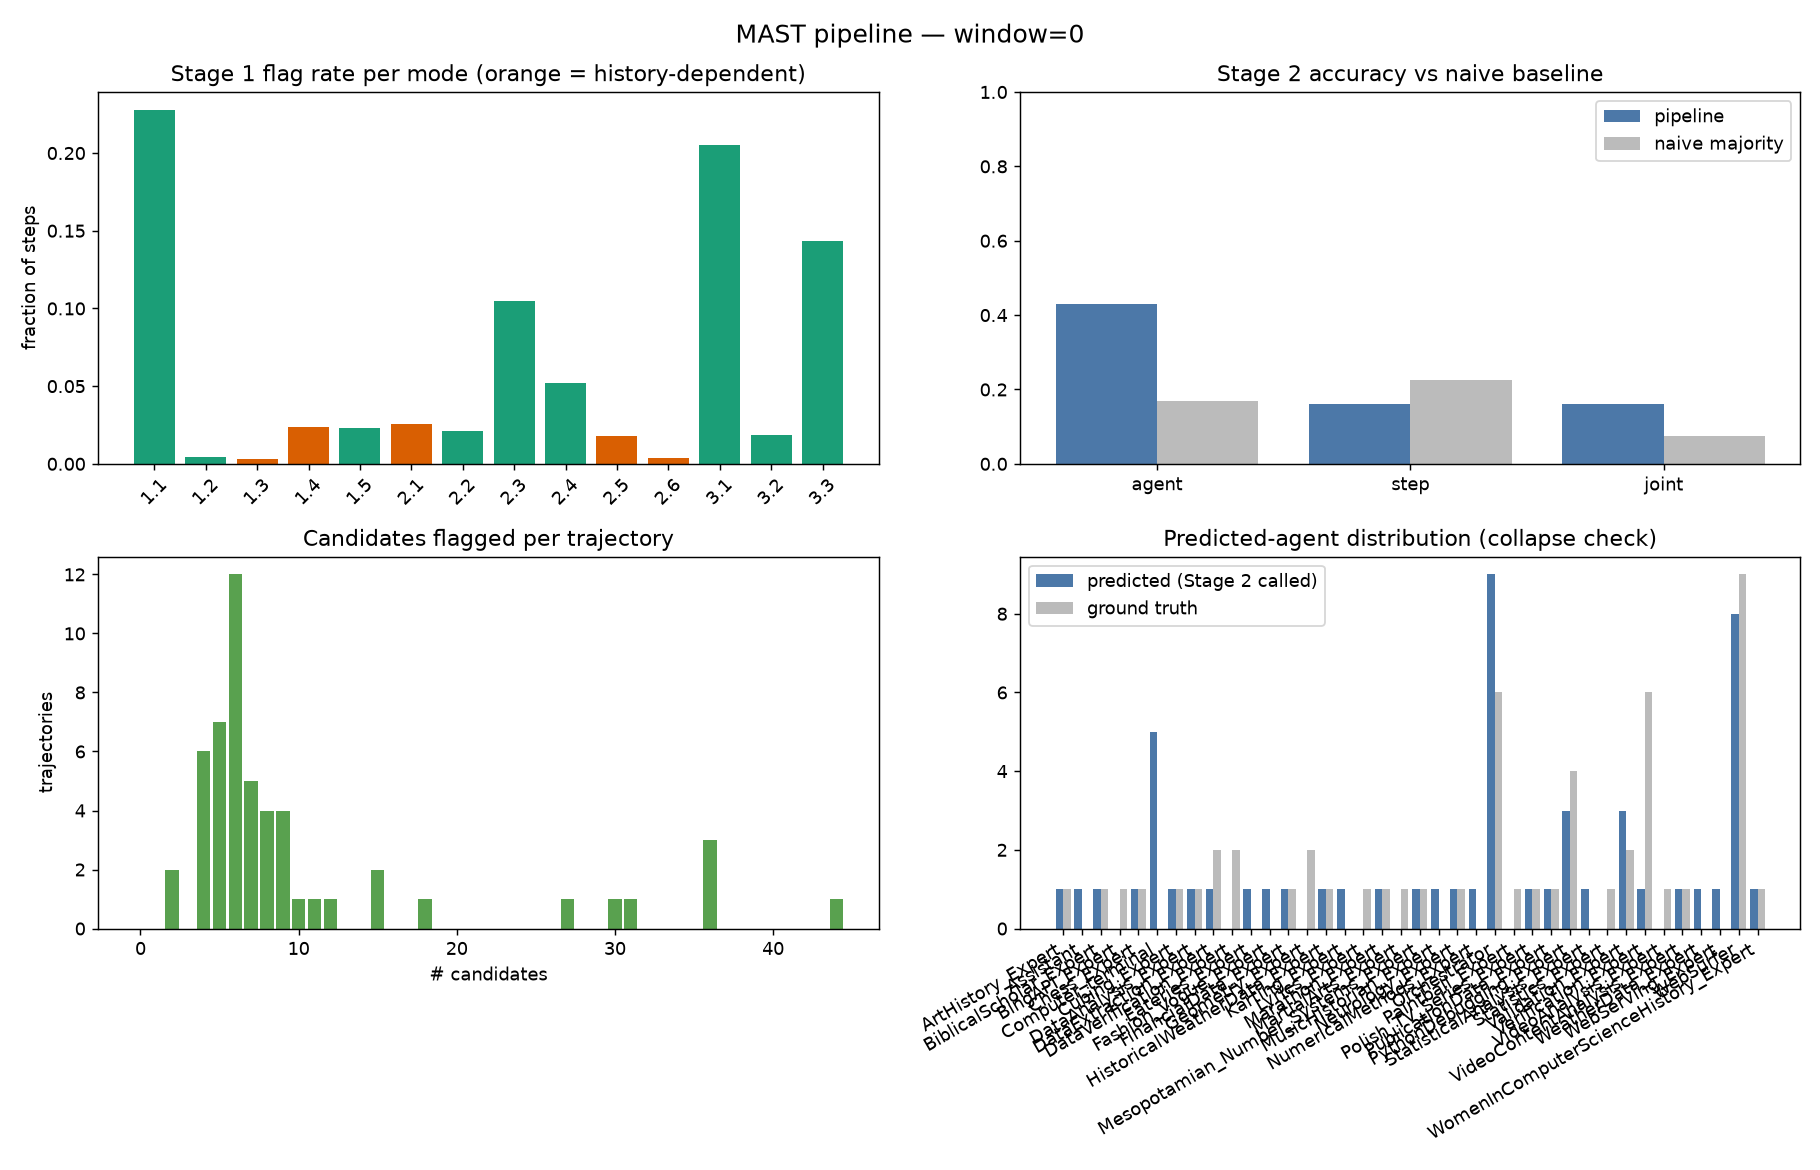
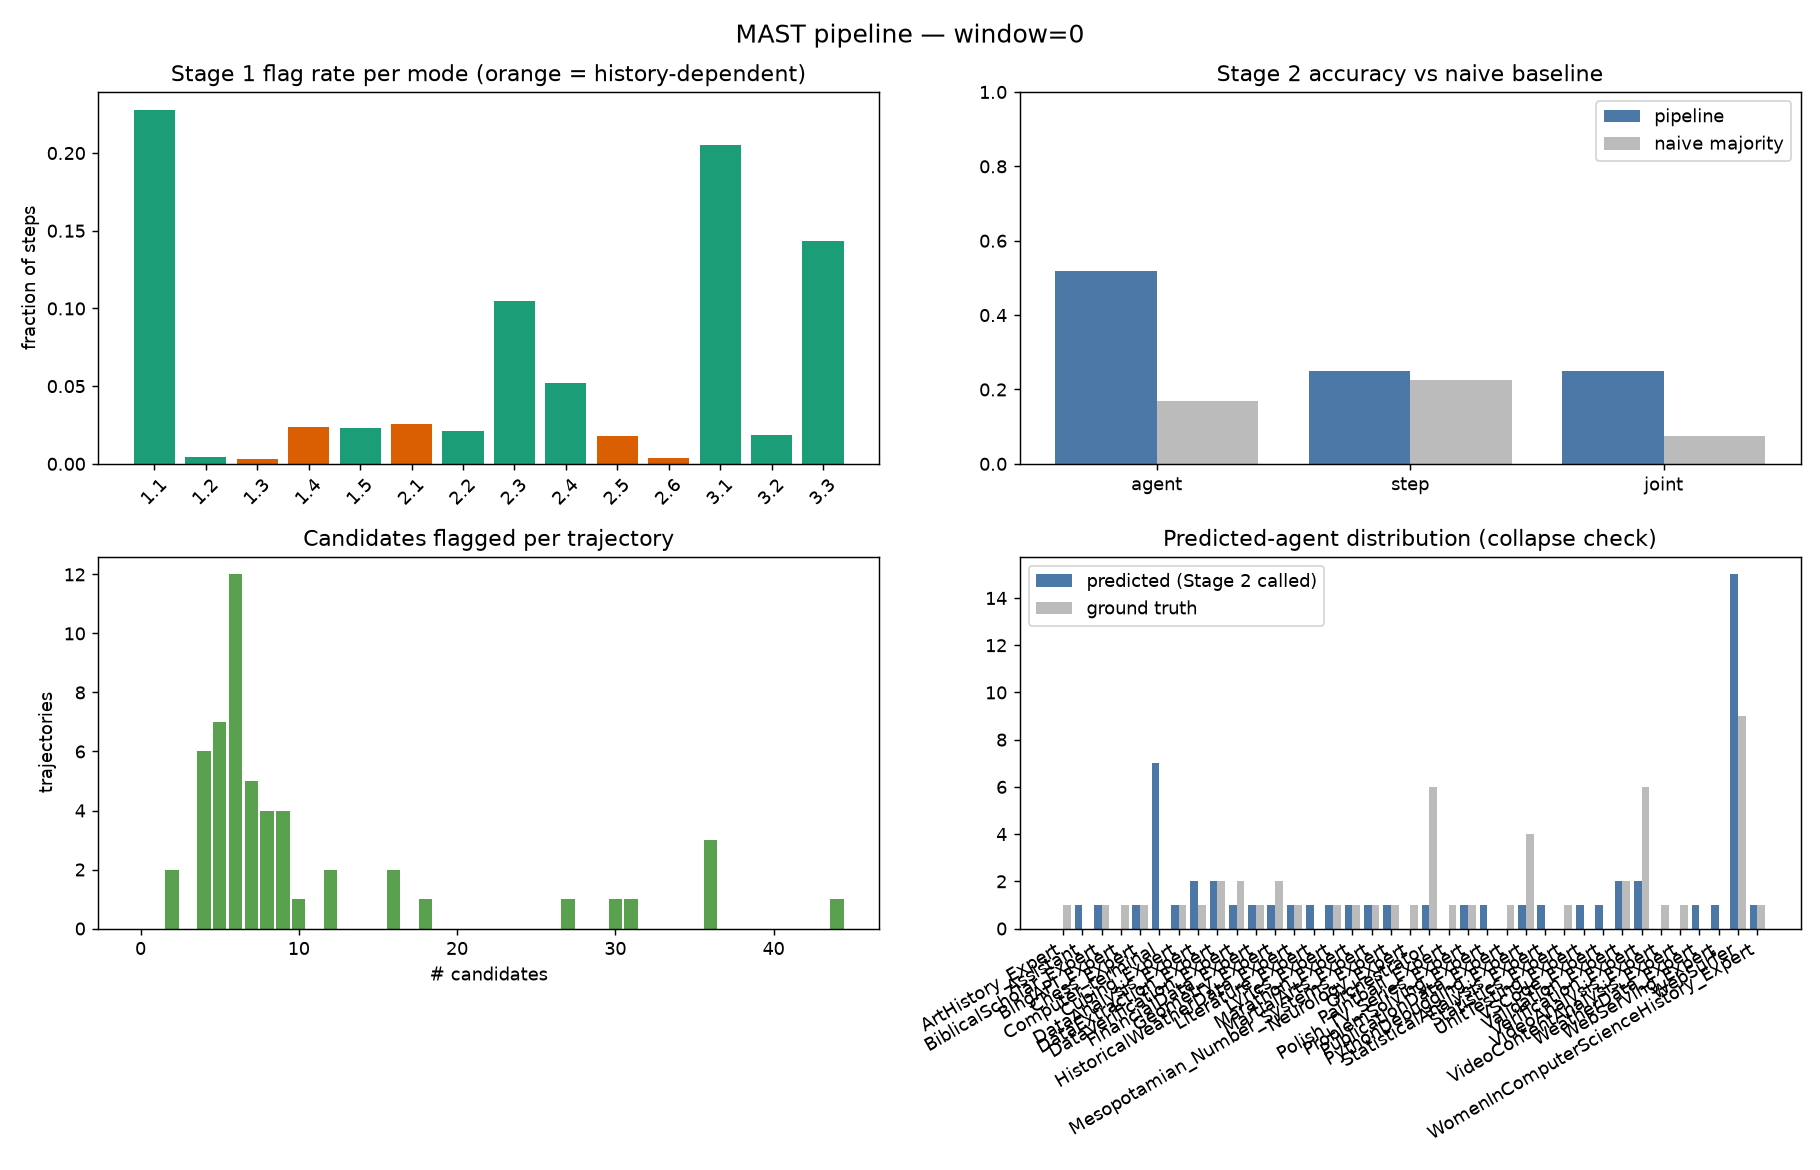
Updated results for the chnage in prompt

diff --git a/window3_report.md b/window3_report.md
@@ -6,12 +6,12 @@
 
 - **Recall of true mistake steps (flagged by Stage 1):** 88.7% of 53 (via history-dependent modes: 18.9%; via context-independent modes: 86.8%)
 - Overall step flag rate: 69.9%  |  zero-candidate trajectories: 0.0%  |  Stage 2 UNSURE rate: 0.0%
-- **Agent / step / joint accuracy:** 42.9% / 21.4% / 17.9%
+- **Agent / step / joint accuracy:** 51.8% / 25.0% / 25.0%
 - Naive majority baseline: agent 17.0% (always 'WebSurfer'), step 22.6% (always 1), joint 7.5% (always ('PythonDebugging_Expert', 0))
-- Agent-correct / step-wrong: 14 trajectories (58.3% of agent-correct predictions)
-- Predicted-agent distribution: {'WebSurfer': 9, 'Orchestrator': 8, 'ComputerTerminal': 1, 'Computer_terminal': 9, 'Chinese_Zodiac_Expert': 1, 'Lyrics_Expert': 1, 'PythonDebugging_Expert': 3, 'WomenInComputerScienceHistory_Expert': 1, 'Cubing_Expert': 1, 'Polish_TV_Series_Expert': 1, 'PublicationData_Expert': 1, 'Mesopotamian_Number_Systems_Expert': 1, 'VideoContentAnalysis_Expert': 1, 'BiblicalScholar_Expert': 1, 'DataExtraction_Expert': 1, 'DoctorWhoScript_Expert': 1, 'Literature_Expert': 1, 'DataVerification_Expert': 1, 'CelestialPhysics_Expert': 1, 'StatisticalAnalysis_Expert': 1, 'Chess_Expert': 1, 'FinancialData_Expert': 1, 'Eateries_Expert': 1, 'DataAnalysis_Expert': 1, 'HistoricalWeatherData_Expert': 1, 'Verification_Expert': 1, 'Karting_Expert': 1, 'NYC_Local_Expert': 1}  (ground truth: {'WebSurfer': 9, 'Orchestrator': 6, 'BingAPI_Expert': 1, 'Geometry_Expert': 2, 'Verification_Expert': 6, 'Validation_Expert': 2, 'ArtHistory_Expert': 1, 'Lyrics_Expert': 1, 'PythonDebugging_Expert': 4, 'WomenInComputerScienceHistory_Expert': 1, 'Cubing_Expert': 1, 'Polish_TV_Series_Expert': 1, 'PublicationData_Expert': 1, 'Mesopotamian_Number_Systems_Expert': 1, 'DataExtraction_Expert': 2, 'VideoContentAnalysis_Expert': 1, 'BiblicalScholar_Expert': 1, 'VideoAnalysis_Expert': 1, 'Neurology_Expert': 1, 'DataVerification_Expert': 2, 'Marathon_Expert': 1, 'DataAnalysis_Expert': 1, 'Chess_Expert': 1, 'FinancialData_Expert': 1, 'HistoricalWeatherData_Expert': 1, 'Statistics_Expert': 1, 'Paintball_Expert': 1, 'MartialArts_Expert': 1})
+- Agent-correct / step-wrong: 15 trajectories (51.7% of agent-correct predictions)
+- Predicted-agent distribution: {'WebSurfer': 12, 'Orchestrator': 3, 'BingAPI_Expert': 1, 'ProblemSolving_Expert': 1, 'Assistant': 1, 'Computer_terminal': 6, 'Lyrics_Expert': 1, 'PythonDebugging_Expert': 3, 'WomenInComputerScienceHistory_Expert': 1, 'Cubing_Expert': 1, 'Polish_TV_Series_Expert': 1, 'NumericalMethods_Expert': 1, 'PublicationData_Expert': 1, 'Mesopotamian_Number_Systems_Expert': 1, 'Geometry_Expert': 1, 'DataExtraction_Expert': 2, 'BiblicalScholar_Expert': 1, 'WebServing_Expert': 1, 'VideoAnalysis_Expert': 1, 'Literature_Expert': 1, 'DataVerification_Expert': 1, 'CelestialPhysics_Expert': 1, 'StatisticalAnalysis_Expert': 1, 'Chess_Expert': 1, 'FinancialData_Expert': 1, 'Validation_Expert': 1, 'Bioinformatics_Expert': 1, 'HistoricalWeatherData_Expert': 1, 'Verification_Expert': 1, 'WeatherData_Expert': 1, 'Karting_Expert': 1, 'NYC_Local_Expert': 1}  (ground truth: {'WebSurfer': 9, 'Orchestrator': 6, 'BingAPI_Expert': 1, 'Geometry_Expert': 2, 'Verification_Expert': 6, 'Validation_Expert': 2, 'ArtHistory_Expert': 1, 'Lyrics_Expert': 1, 'PythonDebugging_Expert': 4, 'WomenInComputerScienceHistory_Expert': 1, 'Cubing_Expert': 1, 'Polish_TV_Series_Expert': 1, 'PublicationData_Expert': 1, 'Mesopotamian_Number_Systems_Expert': 1, 'DataExtraction_Expert': 2, 'VideoContentAnalysis_Expert': 1, 'BiblicalScholar_Expert': 1, 'VideoAnalysis_Expert': 1, 'Neurology_Expert': 1, 'DataVerification_Expert': 2, 'Marathon_Expert': 1, 'DataAnalysis_Expert': 1, 'Chess_Expert': 1, 'FinancialData_Expert': 1, 'HistoricalWeatherData_Expert': 1, 'Statistics_Expert': 1, 'Paintball_Expert': 1, 'MartialArts_Expert': 1})
 - parse_error rates — Summarizer 0.00%, Stage 1 0.00%, Stage 2 0.00%; parse errors on ground-truth steps: 0
-- Cost: 46157 tokens/trajectory (2584815 total; Stage 1 avg input 1166 tokens/step), 141.7s/trajectory
+- Cost: 49368 tokens/trajectory (2764621 total; Stage 1 avg input 1166 tokens/step), 148.5s/trajectory
 
 ## Mode flag counts
 
@@ -40,18 +40,18 @@
 | recall_hist_modes      |     0.113208  |     0.188679  |
 | recall_ctx_indep_modes |     0.698113  |     0.867925  |
 | step_flag_rate         |     0.421289  |     0.698651  |
-| agent_acc              |     0.428571  |     0.428571  |
-| step_acc               |     0.160714  |     0.214286  |
-| joint_acc              |     0.160714  |     0.178571  |
+| agent_acc              |     0.517857  |     0.517857  |
+| step_acc               |     0.25      |     0.25      |
+| joint_acc              |     0.25      |     0.25      |
 | naive_agent            |     0.169811  |     0.169811  |
 | naive_step             |     0.226415  |     0.226415  |
 | naive_joint            |     0.0754717 |     0.0754717 |
 | zero_cand_rate         |     0         |     0         |
 | unsure_rate            |     0         |     0         |
 | parse_err_s1           |     0         |     0         |
-| tokens/traj            | 43010         | 46157         |
+| tokens/traj            | 45865         | 49368         |
 | stage1_in_tok/step     |  1065         |  1166         |
-| latency/traj_s         |   123.8       |   141.7       |
+| latency/traj_s         |   130.2       |   148.5       |
 
 ### Mode flag rate by window
 

diff --git a/window0_report.md b/window0_report.md
@@ -6,12 +6,12 @@
 
 - **Recall of true mistake steps (flagged by Stage 1):** 71.7% of 53 (via history-dependent modes: 11.3%; via context-independent modes: 69.8%)
 - Overall step flag rate: 42.1%  |  zero-candidate trajectories: 0.0%  |  Stage 2 UNSURE rate: 0.0%
-- **Agent / step / joint accuracy:** 42.9% / 16.1% / 16.1%
+- **Agent / step / joint accuracy:** 51.8% / 25.0% / 25.0%
 - Naive majority baseline: agent 17.0% (always 'WebSurfer'), step 22.6% (always 1), joint 7.5% (always ('PythonDebugging_Expert', 0))
-- Agent-correct / step-wrong: 15 trajectories (62.5% of agent-correct predictions)
-- Predicted-agent distribution: {'WebSurfer': 8, 'Orchestrator': 9, 'Assistant': 1, 'Computer_terminal': 5, 'ArtHistory_Expert': 1, 'MusicHistorian_Expert': 1, 'PythonDebugging_Expert': 3, 'WomenInComputerScienceHistory_Expert': 1, 'Cubing_Expert': 1, 'Polish_TV_Series_Expert': 1, 'NumericalMethods_Expert': 1, 'PublicationData_Expert': 1, 'Mesopotamian_Number_Systems_Expert': 1, 'Validation_Expert': 3, 'DataExtraction_Expert': 1, 'VideoContentAnalysis_Expert': 1, 'BiblicalScholar_Expert': 1, 'WebServing_Expert': 1, 'Neurology_Expert': 1, 'Fashion_Vogue_Expert': 1, 'Marathon_Expert': 1, 'StatisticalAnalysis_Expert': 1, 'Chess_Expert': 1, 'FinancialData_Expert': 1, 'Eateries_Expert': 1, 'DataAnalysis_Expert': 1, 'HistoricalWeatherData_Expert': 1, 'WeatherData_Expert': 1, 'Karting_Expert': 1, 'Verification_Expert': 1}  (ground truth: {'WebSurfer': 9, 'Orchestrator': 6, 'BingAPI_Expert': 1, 'Geometry_Expert': 2, 'Verification_Expert': 6, 'Validation_Expert': 2, 'ArtHistory_Expert': 1, 'Lyrics_Expert': 1, 'PythonDebugging_Expert': 4, 'WomenInComputerScienceHistory_Expert': 1, 'Cubing_Expert': 1, 'Polish_TV_Series_Expert': 1, 'PublicationData_Expert': 1, 'Mesopotamian_Number_Systems_Expert': 1, 'DataExtraction_Expert': 2, 'VideoContentAnalysis_Expert': 1, 'BiblicalScholar_Expert': 1, 'VideoAnalysis_Expert': 1, 'Neurology_Expert': 1, 'DataVerification_Expert': 2, 'Marathon_Expert': 1, 'DataAnalysis_Expert': 1, 'Chess_Expert': 1, 'FinancialData_Expert': 1, 'HistoricalWeatherData_Expert': 1, 'Statistics_Expert': 1, 'Paintball_Expert': 1, 'MartialArts_Expert': 1})
+- Agent-correct / step-wrong: 15 trajectories (51.7% of agent-correct predictions)
+- Predicted-agent distribution: {'WebSurfer': 15, 'Orchestrator': 1, 'ProblemSolving_Expert': 1, 'Assistant': 1, 'Computer_terminal': 7, 'Lyrics_Expert': 1, 'UnitTesting_Expert': 1, 'WomenInComputerScienceHistory_Expert': 1, 'Cubing_Expert': 1, 'Polish_TV_Series_Expert': 1, 'Verification_Expert': 2, 'DataAnalysis_Expert': 2, 'Mesopotamian_Number_Systems_Expert': 1, 'Geometry_Expert': 1, 'DataExtraction_Expert': 2, 'VSCode_Expert': 1, 'BiblicalScholar_Expert': 1, 'WebServing_Expert': 1, 'PythonDebugging_Expert': 1, 'Validation_Expert': 2, 'Literature_Expert': 1, 'DataVerification_Expert': 1, 'Marathon_Expert': 1, 'StatisticalAnalysis_Expert': 1, 'Chess_Expert': 1, 'FinancialData_Expert': 1, 'HistoricalWeatherData_Expert': 1, 'WeatherData_Expert': 1, 'MartialArts_Expert': 1}  (ground truth: {'WebSurfer': 9, 'Orchestrator': 6, 'BingAPI_Expert': 1, 'Geometry_Expert': 2, 'Verification_Expert': 6, 'Validation_Expert': 2, 'ArtHistory_Expert': 1, 'Lyrics_Expert': 1, 'PythonDebugging_Expert': 4, 'WomenInComputerScienceHistory_Expert': 1, 'Cubing_Expert': 1, 'Polish_TV_Series_Expert': 1, 'PublicationData_Expert': 1, 'Mesopotamian_Number_Systems_Expert': 1, 'DataExtraction_Expert': 2, 'VideoContentAnalysis_Expert': 1, 'BiblicalScholar_Expert': 1, 'VideoAnalysis_Expert': 1, 'Neurology_Expert': 1, 'DataVerification_Expert': 2, 'Marathon_Expert': 1, 'DataAnalysis_Expert': 1, 'Chess_Expert': 1, 'FinancialData_Expert': 1, 'HistoricalWeatherData_Expert': 1, 'Statistics_Expert': 1, 'Paintball_Expert': 1, 'MartialArts_Expert': 1})
 - parse_error rates — Summarizer 0.00%, Stage 1 0.00%, Stage 2 0.00%; parse errors on ground-truth steps: 0
-- Cost: 43010 tokens/trajectory (2408562 total; Stage 1 avg input 1065 tokens/step), 123.8s/trajectory
+- Cost: 45865 tokens/trajectory (2568432 total; Stage 1 avg input 1065 tokens/step), 130.2s/trajectory
 
 ## Mode flag counts
 
